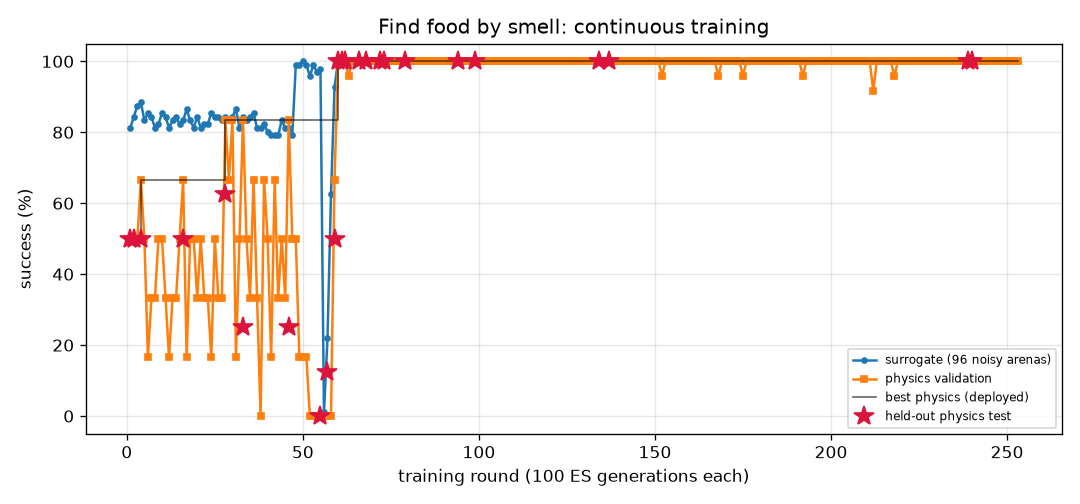
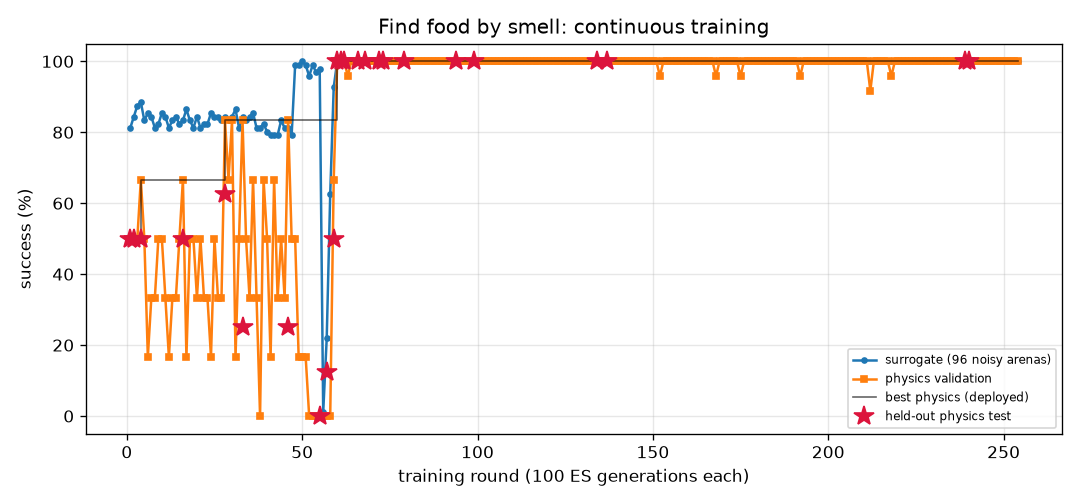
FlyLab: daily snapshot 2026-11-17
Daily entry in projects/09_flylab/training/daily/2026-11.md, plus 13 uncommitted training output file(s).

diff --git a/projects/09_flylab/training/turn/REPORT.md b/projects/09_flylab/training/turn/REPORT.md
@@ -1,14 +1,14 @@
 # Turn in place (`turn`) — training report
 
-*Auto-generated by `train_brains.py`, last updated 2026-11-16T22:12:09.*
+*Auto-generated by `train_brains.py`, last updated 2026-11-16T22:46:12.*
 
 ![curve](curve.png)
 
 | | |
 |---|---|
-| rounds | 1093 |
-| ES generations | 109300 |
-| physics runs | 26478 |
+| rounds | 1098 |
+| ES generations | 109800 |
+| physics runs | 26598 |
 | status | **optimal** |
 | best brain | round 80: physics validation **100%** on 24 arenas, surrogate 100% |
 | held-out physics test | **97%** on 32 unseen arenas (95% CI 84%-99%) (errors: [1.6, 3.3, 6.3, 3.7, 1.1, 0.4, 2.4, 2.9, 0.1, 2.6, 0.5, 2.7, 1.5, 3.1, 4.5, 0.2, 0.5, 1.1, 2.0, 4.4, 2.8, 3.2, 0.3, 2.2, 0.5, 3.0, 0.3, 5.4, 0.4, 1.0, 4.7, 10.7]) |
@@ -17,11 +17,6 @@ Physics error per arena: deg from target heading (< 20 = success).
 
 | round | level | gens | sigma | surrogate | physics val | val errors | test | note |
 |---:|---:|---:|---:|---:|---:|---|---:|---|
-| 1054 | 3 | 105400 | 0.025 | 100% | 79% | [3.4, 6.0, 9.4, 0.8, 7.1, 4.0, 8.1, 6.0, 7.2, 1.9, 6.2, 3.8, 0.8, 2.7, 5.9, 2.6, 4.4, 13.8, 2.4, 3.2, 2.1, 2.9, 8.1, 6.1] |  |  |
-| 1055 | 3 | 105500 | 0.024 | 98% | 83% | [6.4, 8.1, 8.4, 0.9, 5.3, 1.8, 4.9, 2.2, 4.4, 0.3, 4.5, 2.3, 1.3, 4.1, 2.9, 1.4, 1.7, 0.7, 1.4, 0.8, 5.6, 1.4, 4.1, 5.2] |  |  |
-| 1056 | 3 | 105600 | 0.025 | 100% | 96% | [5.9, 8.6, 5.7, 4.9, 9.1, 1.3, 3.8, 2.2, 3.4, 0.8, 2.7, 1.1, 1.9, 4.0, 3.3, 0.9, 1.2, 1.5, 9.4, 0.5, 6.4, 0.2, 2.1, 4.5] |  | restart from best |
-| 1057 | 3 | 105700 | 0.024 | 99% | 79% | [7.3, 8.5, 9.0, 2.9, 7.3, 1.8, 2.5, 0.2, 3.4, 0.2, 4.2, 2.6, 1.5, 1.2, 2.0, 2.0, 2.5, 0.1, 1.9, 1.8, 6.7, 0.5, 3.4, 3.5] |  |  |
-| 1058 | 3 | 105800 | 0.025 | 99% | 79% | [2.8, 5.1, 6.4, 1.0, 5.7, 1.2, 3.9, 4.3, 5.6, 0.3, 4.4, 0.2, 2.3, 1.6, 3.3, 2.1, 0.6, 1.9, 2.2, 0.2, 4.0, 0.6, 6.0, 3.6] |  |  |
 | 1059 | 3 | 105900 | 0.025 | 100% | 71% | [6.3, 0.5, 6.5, 0.5, 4.5, 1.9, 5.5, 2.2, 6.0, 0.3, 6.0, 0.7, 1.4, 0.3, 4.7, 1.1, 0.7, 1.7, 0.9, 1.3, 6.2, 2.1, 8.2, 7.8] |  |  |
 | 1060 | 3 | 106000 | 0.024 | 99% | 75% | [5.0, 0.2, 6.9, 0.2, 1.7, 3.7, 6.4, 1.9, 5.7, 0.1, 5.4, 0.4, 1.4, 0.9, 4.5, 1.8, 0.3, 3.4, 1.7, 0.1, 2.8, 0.0, 5.5, 7.3] |  | restart from best |
 | 1061 | 3 | 106100 | 0.024 | 100% | 83% | [1.1, 5.4, 0.8, 3.4, 1.7, 1.2, 4.5, 5.3, 6.6, 0.4, 4.1, 1.3, 2.2, 2.3, 3.4, 1.4, 0.9, 0.3, 2.8, 0.8, 2.0, 1.9, 5.5, 5.8] |  |  |
@@ -57,3 +52,8 @@ Physics error per arena: deg from target heading (< 20 = success).
 | 1091 | 3 | 109100 | 0.025 | 99% | 62% | [5.4, 8.3, 0.3, 1.6, 6.9, 0.8, 4.7, 5.0, 4.1, 1.2, 3.6, 3.2, 3.0, 0.1, 2.7, 1.0, 3.0, 0.3, 2.6, 1.2, 8.7, 1.3, 3.5, 0.5] |  |  |
 | 1092 | 3 | 109200 | 0.025 | 100% | 75% | [4.2, 3.5, 4.9, 0.8, 0.7, 1.4, 6.4, 7.8, 6.5, 0.6, 4.4, 0.3, 0.6, 1.0, 4.0, 2.4, 0.7, 2.5, 3.5, 3.2, 6.5, 0.5, 6.0, 4.6] |  | restart from best |
 | 1093 | 3 | 109300 | 0.024 | 100% | 96% | [8.8, 10.5, 6.7, 6.1, 3.3, 0.7, 0.6, 1.8, 0.3, 3.5, 1.0, 3.5, 3.4, 4.8, 0.3, 6.6, 3.3, 3.1, 2.9, 1.3, 4.8, 3.7, 0.3, 8.0] |  |  |
+| 1094 | 3 | 109400 | 0.024 | 100% | 92% | [7.2, 9.3, 8.8, 3.1, 2.3, 0.3, 4.2, 2.2, 3.8, 2.1, 3.3, 1.9, 3.4, 5.0, 2.3, 1.9, 1.2, 1.5, 2.5, 2.2, 7.5, 0.6, 3.3, 0.5] |  |  |
+| 1095 | 3 | 109500 | 0.024 | 100% | 96% | [7.3, 8.4, 6.3, 1.6, 2.5, 5.0, 2.4, 2.4, 4.2, 2.0, 2.1, 2.5, 1.0, 6.3, 1.5, 2.7, 1.7, 3.1, 2.8, 3.1, 7.0, 1.6, 3.6, 0.8] |  |  |
+| 1096 | 3 | 109600 | 0.024 | 100% | 79% | [1.9, 4.3, 8.2, 0.3, 3.4, 5.0, 6.8, 4.1, 8.0, 1.0, 4.8, 3.1, 2.1, 0.3, 4.1, 4.2, 3.9, 3.7, 5.1, 4.7, 4.5, 3.2, 5.3, 8.4] |  | restart from best |
+| 1097 | 3 | 109700 | 0.024 | 99% | 96% | [7.0, 8.9, 2.3, 3.2, 1.3, 1.0, 3.6, 2.0, 3.3, 1.1, 3.2, 0.6, 3.0, 4.8, 3.0, 0.0, 0.4, 0.6, 0.7, 1.5, 5.8, 0.4, 2.5, 0.8] |  |  |
+| 1098 | 3 | 109800 | 0.025 | 99% | 71% | [7.7, 10.0, 9.6, 3.1, 7.2, 3.2, 3.1, 6.7, 1.6, 0.5, 2.3, 3.0, 1.9, 5.0, 2.2, 0.4, 2.3, 1.3, 2.8, 2.3, 7.3, 1.6, 2.1, 5.6] |  |  |

diff --git a/projects/09_flylab/training/odor_avoid/REPORT.md b/projects/09_flylab/training/odor_avoid/REPORT.md
@@ -1,14 +1,14 @@
 # Escape a bad smell (`odor_avoid`) — training report
 
-*Auto-generated by `train_brains.py`, last updated 2026-11-16T19:14:25.*
+*Auto-generated by `train_brains.py`, last updated 2026-11-16T22:49:45.*
 
 ![curve](curve.png)
 
 | | |
 |---|---|
-| rounds | 953 |
-| ES generations | 95300 |
-| physics runs | 20178 |
+| rounds | 955 |
+| ES generations | 95500 |
+| physics runs | 20226 |
 | status | **optimal** |
 | best brain | round 373: physics validation **100%** on 24 arenas, surrogate 97% |
 | held-out physics test | **97%** on 32 unseen arenas (95% CI 84%-99%) (errors: [62.0, 57.4, 62.6, 61.9, 59.0, 61.6, 56.5, 60.7, 31.7, 60.9, 63.1, 57.1, 61.1, 62.1, 61.5, 60.2, 62.2, 55.2, 62.1, 54.2, 61.3, 62.0, 58.0, 61.9, 59.8, 56.5, 56.3, 56.4, 56.3, 57.7, 61.9, 32.4]) |
@@ -17,8 +17,6 @@ Physics error per arena: mm gained away from source (> 6 without first approachi
 
 | round | level | gens | sigma | surrogate | physics val | val errors | test | note |
 |---:|---:|---:|---:|---:|---:|---|---:|---|
-| 914 | 3 | 91400 | 0.026 | 98% | 96% | [62.3, 58.5, 56.1, 61.1, 62.3, 60.9, 60.7, 57.4, 61.8, 59.5, 61.4, 61.6, 54.6, 55.9, 50.3, 61.4, 61.8, 61.1, 55.1, 57.0, 62.0, 62.0, 59.5, 43.9] |  |  |
-| 915 | 3 | 91500 | 0.025 | 95% | 100% | [60.8, 58.8, 56.1, 60.1, 61.1, 61.1, 61.1, 58.0, 60.6, 44.3, 52.1, 61.0, 49.7, 55.6, 29.9, 42.8, 61.0, 49.7, 49.4, 56.1, 61.0, 50.6, 60.4, 28.1] |  |  |
 | 916 | 3 | 91600 | 0.027 | 98% | 100% | [61.1, 59.0, 55.2, 60.3, 59.1, 59.0, 61.7, 58.5, 61.0, 29.8, 28.4, 60.9, 47.0, 53.6, 9.1, 41.7, 61.0, 38.6, 52.4, 56.5, 61.3, 57.3, 59.1, 59.7] |  |  |
 | 917 | 3 | 91700 | 0.025 | 88% | 92% | [61.7, 54.4, 56.4, 54.4, 61.9, 60.4, 60.0, 3.3, 61.1, 52.7, 61.7, 62.3, 52.0, 56.0, 38.7, 62.2, 61.8, 61.4, 55.0, 54.8, 61.9, 15.3, 56.5, 21.1] |  | restart from best |
 | 918 | 3 | 91800 | 0.026 | 94% | 96% | [62.5, 58.3, 56.8, 61.3, 60.5, 60.0, 61.6, 41.4, 61.6, 60.6, 59.8, 61.2, 47.8, 55.7, 36.3, 61.0, 61.5, 57.9, 52.2, 59.4, 61.6, 53.3, 60.2, 52.4] |  |  |
@@ -57,3 +55,5 @@ Physics error per arena: mm gained away from source (> 6 without first approachi
 | 951 | 3 | 95100 | 0.028 | 95% | 96% | [61.8, 56.7, 56.4, 59.7, 61.8, 59.5, 61.6, 28.9, 61.9, 47.5, 61.9, 61.4, 54.7, 56.4, 42.3, 60.9, 61.8, 60.2, 54.7, 56.4, 62.0, 32.5, 59.3, 43.4] |  |  |
 | 952 | 3 | 95200 | 0.027 | 96% | 96% | [60.5, 56.9, 57.6, 57.0, 62.1, 61.1, 61.7, 30.0, 61.5, 58.6, 60.8, 61.6, 54.6, 58.0, 45.3, 61.1, 61.7, 60.8, 54.5, 56.0, 61.9, 60.7, 57.1, 47.8] |  |  |
 | 953 | 3 | 95300 | 0.026 | 93% | 100% | [28.2, 53.6, 57.7, 53.5, 61.4, 61.5, 59.6, 61.2, 59.9, 61.9, 59.7, 60.7, 51.8, 56.8, 52.0, 61.6, 60.5, 62.2, 52.3, 54.5, 60.0, 61.6, 57.2, 60.9] |  | restart from best |
+| 954 | 3 | 95400 | 0.026 | 98% | 96% | [62.7, 60.8, 56.3, 59.7, 61.8, 62.0, 62.1, 23.2, 62.0, 52.2, 61.5, 62.0, 55.1, 56.2, 41.0, 61.2, 61.9, 60.8, 55.3, 60.0, 62.4, 54.8, 57.1, 39.1] |  |  |
+| 955 | 3 | 95500 | 0.025 | 94% | 96% | [60.5, 59.3, 56.0, 59.6, 61.7, 60.2, 61.5, 3.8, 61.9, 18.9, 61.3, 61.6, 55.0, 55.8, 51.1, 60.7, 61.8, 59.4, 54.8, 56.8, 61.1, 22.9, 58.8, 17.3] |  |  |

diff --git a/projects/09_flylab/training/odor_seek/REPORT.md b/projects/09_flylab/training/odor_seek/REPORT.md
@@ -1,14 +1,14 @@
 # Find food by smell (`odor_seek`) — training report
 
-*Auto-generated by `train_brains.py`, last updated 2026-11-16T22:13:43.*
+*Auto-generated by `train_brains.py`, last updated 2026-11-16T22:31:40.*
 
 ![curve](curve.png)
 
 | | |
 |---|---|
-| rounds | 253 |
-| ES generations | 25300 |
-| physics runs | 5566 |
+| rounds | 254 |
+| ES generations | 25400 |
+| physics runs | 5590 |
 | status | **optimal** |
 | best brain | round 240: physics validation **100%** on 24 arenas, surrogate 100% |
 | held-out physics test | **100%** on 32 unseen arenas (95% CI 89%-100%) (errors: [0.02, 0.03, 0.03, 0.05, 0.04, 0.05, 0.06, 0.07, 0.09, 0.05, 0.05, 0.01, 0.12, 0.03, 0.07, 0.08, 0.02, 0.06, 0.03, 0.04, 0.0, 0.01, 0.09, 0.05, 0.04, 0.01, 0.07, 0.05, 0.08, 0.05, 0.05, 0.02]) |
@@ -17,7 +17,6 @@ Physics error per arena: mm from target at the end (< 1.5 and standing still = s
 
 | round | level | gens | sigma | surrogate | physics val | val errors | test | note |
 |---:|---:|---:|---:|---:|---:|---|---:|---|
-| 214 | 3 | 21400 | 0.024 | 100% | 100% | [0.06, 0.12, 0.12, 0.17, 0.08, 0.13, 0.13, 0.08, 0.18, 0.04, 0.08, 0.12, 0.12, 0.09, 0.15, 0.23, 0.08, 0.08, 0.17, 0.07, 0.14, 0.02, 0.03, 0.12] |  |  |
 | 215 | 3 | 21500 | 0.024 | 100% | 100% | [0.14, 0.19, 0.12, 0.07, 0.12, 0.17, 0.09, 0.09, 0.14, 0.11, 0.07, 0.1, 0.09, 0.1, 0.17, 0.07, 0.15, 0.13, 0.05, 0.1, 0.07, 0.17, 0.07, 0.14] |  |  |
 | 216 | 3 | 21600 | 0.024 | 100% | 100% | [0.14, 0.14, 0.13, 0.21, 0.13, 0.09, 0.12, 0.12, 0.11, 0.16, 0.13, 0.15, 0.16, 0.13, 0.18, 0.17, 0.18, 0.11, 0.18, 0.16, 0.24, 0.13, 0.12, 0.06] |  |  |
 | 217 | 3 | 21700 | 0.024 | 100% | 100% | [0.21, 0.18, 0.06, 0.18, 0.12, 0.16, 0.06, 0.14, 0.16, 0.12, 0.11, 0.16, 0.16, 0.14, 0.21, 0.17, 0.16, 0.07, 0.13, 0.15, 0.13, 0.14, 0.2, 0.12] |  | restart from best |
@@ -57,3 +56,4 @@ Physics error per arena: mm from target at the end (< 1.5 and standing still = s
 | 251 | 3 | 25100 | 0.024 | 100% | 100% | [0.28, 0.09, 0.24, 0.26, 0.13, 0.11, 0.15, 0.17, 0.21, 0.15, 0.17, 0.19, 0.19, 0.09, 0.19, 0.22, 0.24, 0.14, 0.07, 0.14, 0.17, 0.17, 0.16, 0.2] |  |  |
 | 252 | 3 | 25200 | 0.024 | 100% | 100% | [0.15, 0.11, 0.17, 0.14, 0.16, 0.19, 0.17, 0.2, 0.08, 0.05, 0.08, 0.23, 0.09, 0.15, 0.21, 0.11, 0.07, 0.2, 0.08, 0.21, 0.09, 0.08, 0.16, 0.2] |  | restart from best |
 | 253 | 3 | 25300 | 0.024 | 100% | 100% | [0.02, 0.2, 0.09, 0.1, 0.07, 0.03, 0.04, 0.1, 0.1, 0.07, 0.04, 0.05, 0.1, 0.09, 0.11, 0.07, 0.07, 0.12, 0.11, 0.1, 0.07, 0.02, 0.05, 0.11] |  |  |
+| 254 | 3 | 25400 | 0.024 | 100% | 100% | [0.04, 0.13, 0.02, 0.09, 0.08, 0.12, 0.12, 0.13, 0.08, 0.08, 0.12, 0.04, 0.06, 0.12, 0.07, 0.18, 0.08, 0.12, 0.09, 0.06, 0.07, 0.16, 0.07, 0.08] |  |  |

diff --git a/projects/09_flylab/training/TRAINING.md b/projects/09_flylab/training/TRAINING.md
@@ -1,15 +1,15 @@
 # FlyLab brains — continuous training log
 
-*Auto-generated by `train_brains.py`, last updated 2026-11-16T22:13:43.*
+*Auto-generated by `train_brains.py`, last updated 2026-11-16T22:49:45.*
 
 Every skill has its own brain and its own training process: surrogate ES rounds, physics validation in MuJoCo, keep-the-best selection, and a held-out physics test that is never used for selection. See each skill's report for its full round-by-round history. Mastery is progressive: passing a level (100% physics validation, >=95% surrogate) doubles the validation and test arena sets; a brain is **optimal** once it holds up at level 3 (>=95% of 24 validation arenas) AND scores >=90% on the 32 held-out test arenas. Test columns show 95% Wilson confidence intervals.
 
 | skill | rounds | ES generations | physics runs | surrogate | physics val | **physics test** | status |
 |---|---:|---:|---:|---:|---:|---:|---|
 | [Walk forward](walk_forward/REPORT.md) | 405 | 40500 | 9734 | 100% | 100% of 24 | 100% of 32 (CI 89-100%) | **optimal** |
-| [Turn in place](turn/REPORT.md) | 1093 | 109300 | 26478 | 100% | 100% of 24 | 97% of 32 (CI 84-99%) | **optimal** |
+| [Turn in place](turn/REPORT.md) | 1098 | 109800 | 26598 | 100% | 100% of 24 | 97% of 32 (CI 84-99%) | **optimal** |
 | [Go to a location](goto/REPORT.md) | 313 | 31300 | 7462 | 100% | 100% of 24 | 100% of 32 (CI 89-100%) | **optimal** |
-| [Find food by smell](odor_seek/REPORT.md) | 253 | 25300 | 5566 | 100% | 100% of 24 | 100% of 32 (CI 89-100%) | **optimal** |
-| [Escape a bad smell](odor_avoid/REPORT.md) | 953 | 95300 | 20178 | 97% | 100% of 24 | 97% of 32 (CI 84-99%) | **optimal** |
+| [Find food by smell](odor_seek/REPORT.md) | 254 | 25400 | 5590 | 100% | 100% of 24 | 100% of 32 (CI 89-100%) | **optimal** |
+| [Escape a bad smell](odor_avoid/REPORT.md) | 955 | 95500 | 20226 | 97% | 100% of 24 | 97% of 32 (CI 84-99%) | **optimal** |
 | [Walk toward light](light_seek/REPORT.md) | 514 | 51400 | 9216 | 100% | 100% of 24 | 100% of 32 (CI 89-100%) | **optimal** |
 | [Hide from light](light_avoid/REPORT.md) | 674 | 67400 | 16448 | 100% | 100% of 24 | 100% of 32 (CI 89-100%) | **optimal** |

diff --git a/projects/09_flylab/training/daily/2026-11.md b/projects/09_flylab/training/daily/2026-11.md
@@ -136,3 +136,18 @@ Written by daily_commit.py once a day.
 
 - training supervisor: running
 - commits in the last 24 h: 8 (latest `0bc8158 01:11 FlyLab: continuous training progress`)
+
+## 2026-11-17 (Tue)
+
+| brain | state | level | physics val | test | round |
+|---|---|---|---|---|---|
+| walk_forward | optimal | 3 | 100% of 24 | 100% | 405 |
+| turn | optimal | 3 | 100% of 24 | 97% | 1098 |
+| goto | optimal | 3 | 100% of 24 | 100% | 313 |
+| odor_seek | optimal | 3 | 100% of 24 | 100% | 254 |
+| odor_avoid | optimal | 3 | 100% of 24 | 97% | 955 |
+| light_seek | optimal | 3 | 100% of 24 | 100% | 514 |
+| light_avoid | optimal | 3 | 100% of 24 | 100% | 674 |
+
+- training supervisor: running
+- commits in the last 24 h: 3 (latest `e12ca63 22:13 FlyLab: continuous training progress`)
